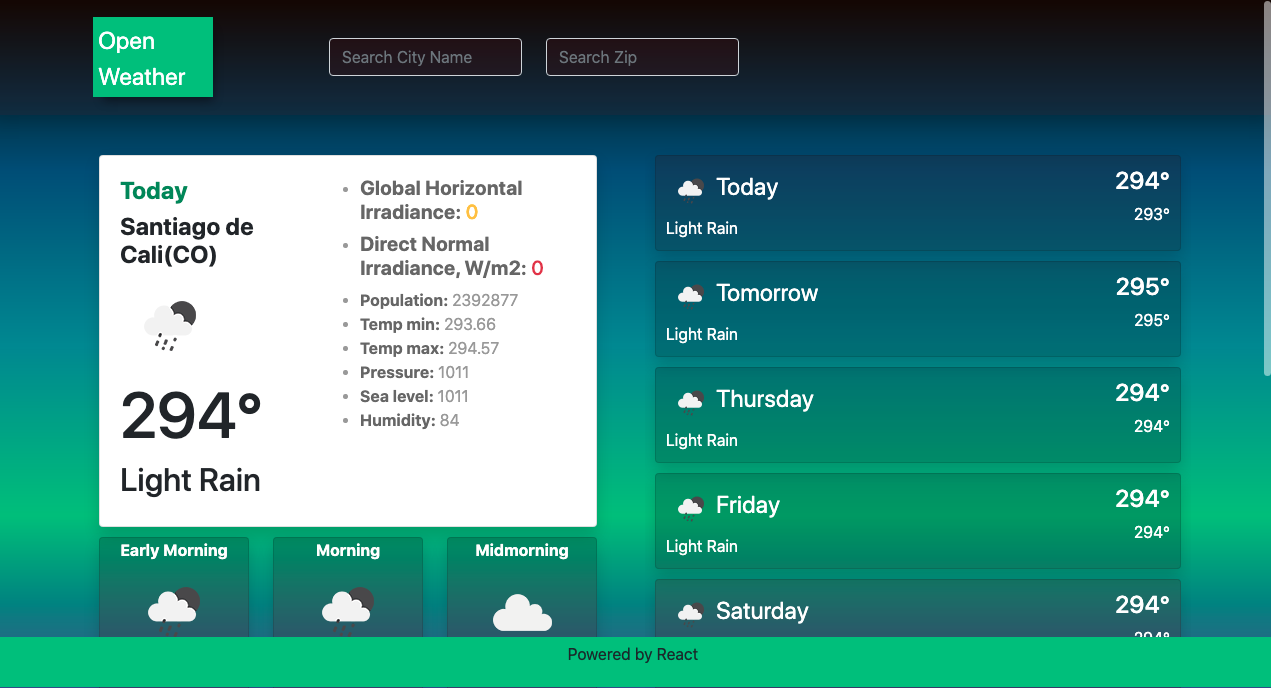
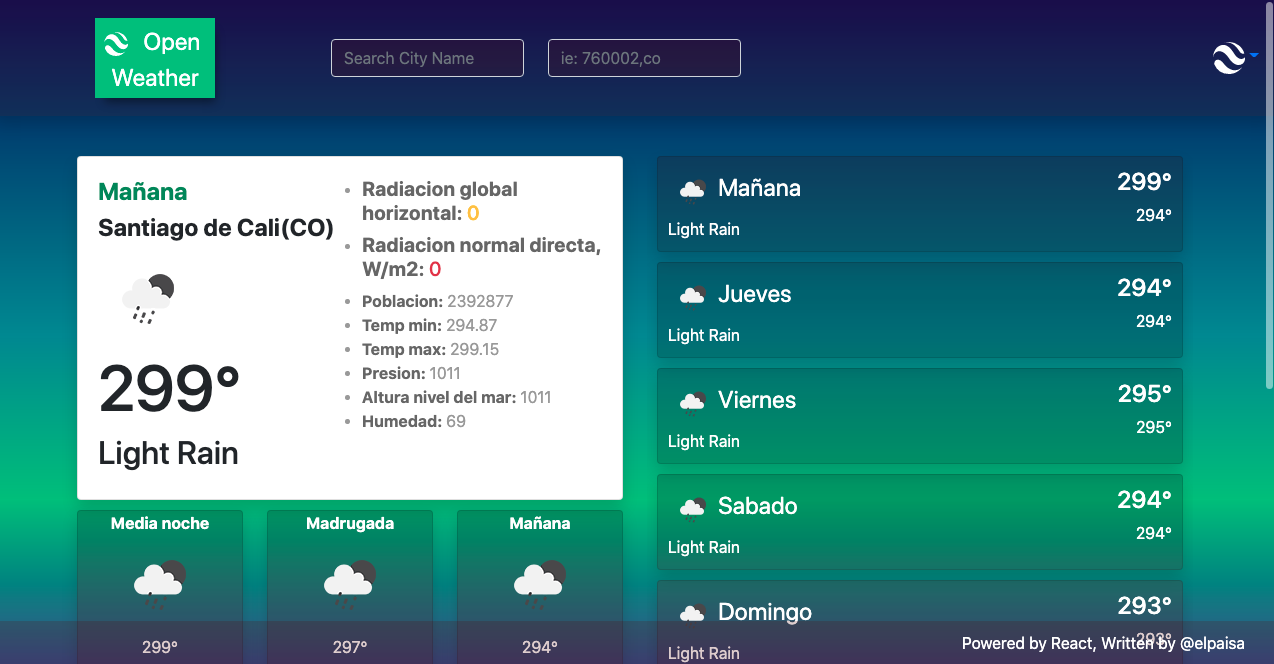
Minor tweak

diff --git a/react/src/components/footer/Footer.jsx b/react/src/components/footer/Footer.jsx
@@ -1,8 +1,8 @@
 import React from 'react';
 
 const Footer = () => (
-  <footer className="footer">
-    <p>Powered by React</p>
+  <footer className="footer alpha-dark">
+    Powered by React, Written by @elpaisa
   </footer>
 );
 

diff --git a/react/src/css/index.scss b/react/src/css/index.scss
@@ -234,8 +234,8 @@ a.text-white, .text-white {
    background-color: #00bf72;
    bottom: 1px;
    width: 100%;
-   text-align: center;
-   padding: 5px;
+   text-align: right;
+   padding: 10px 30px;
 }
 
 .search {
